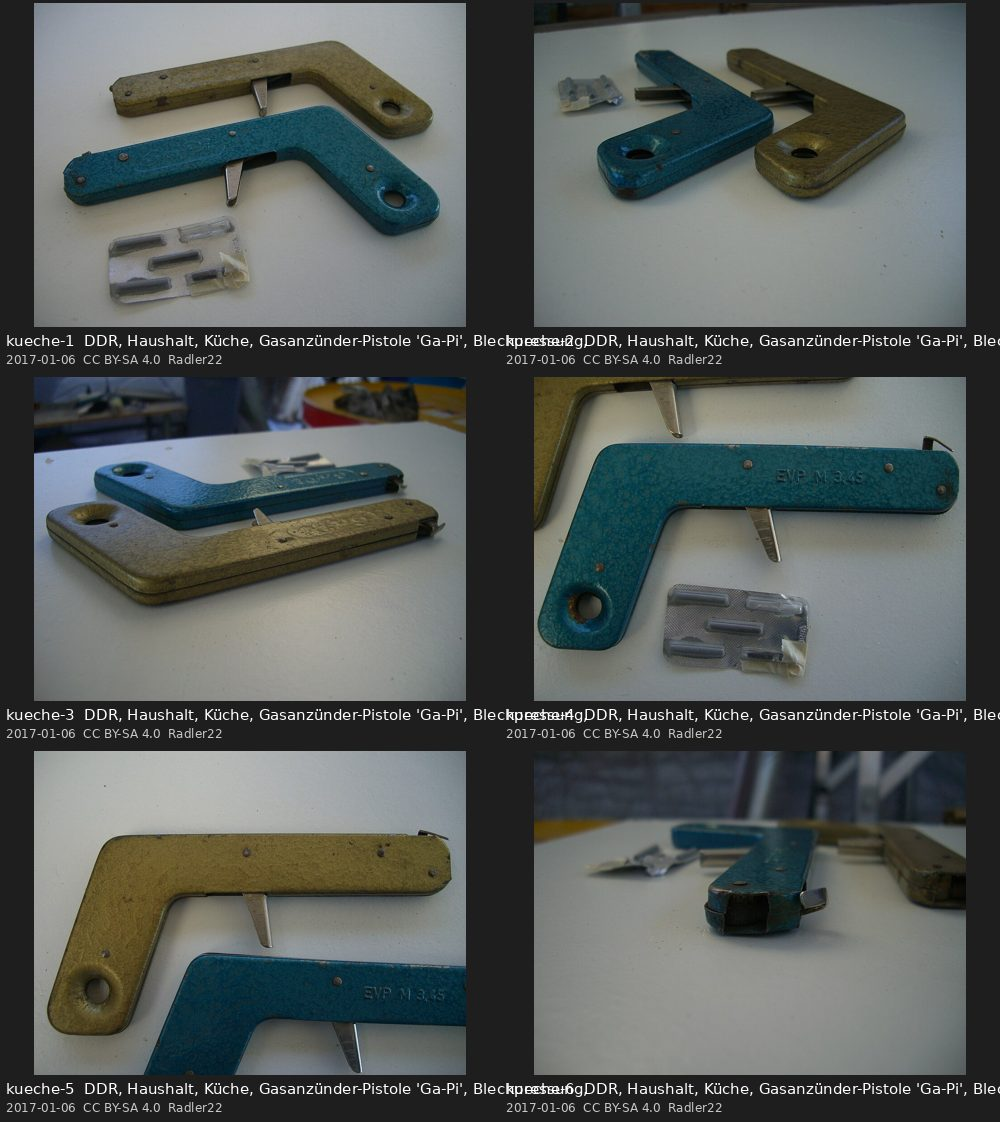
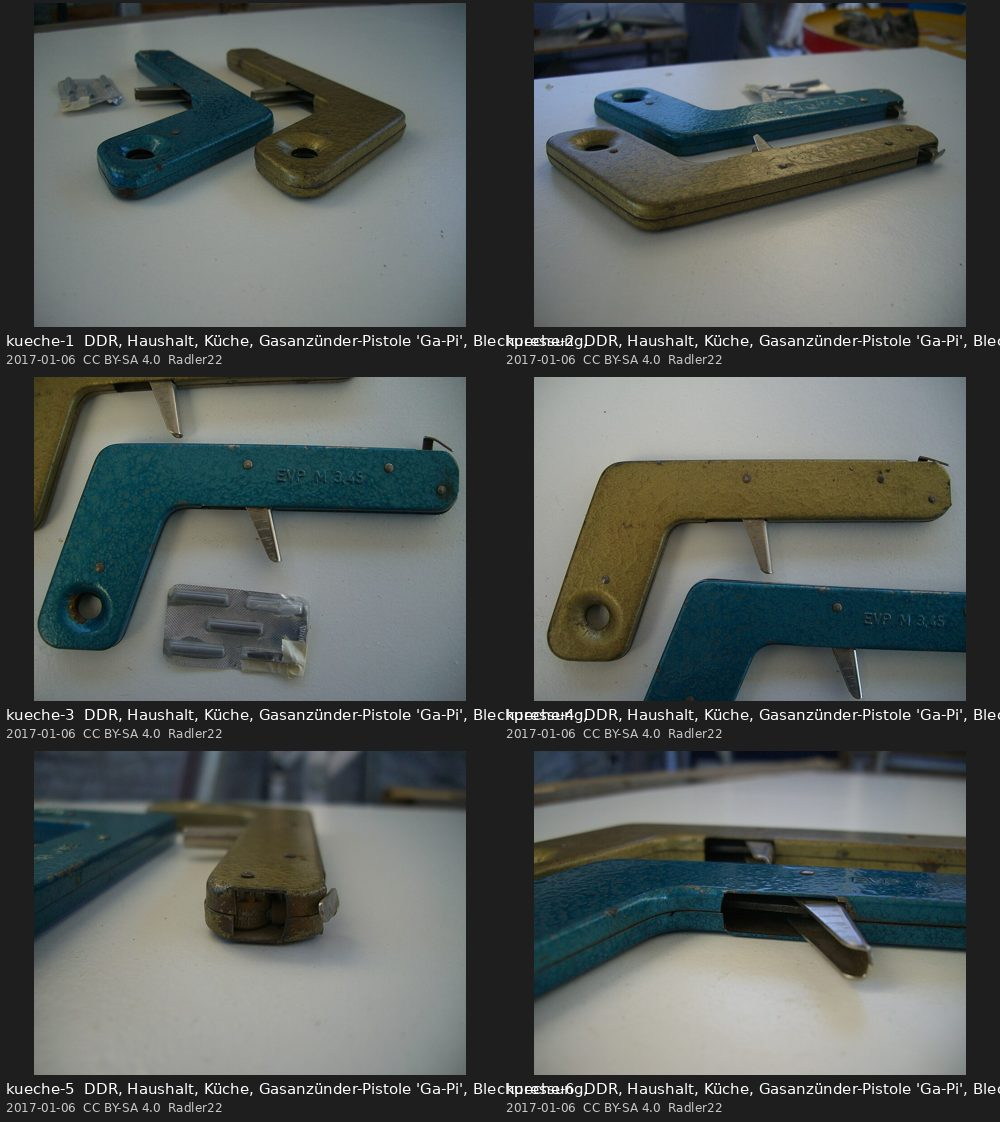
Zombie innen: research from 8b6e035 (not for merging)

diff --git a/CREDITS.md b/CREDITS.md
@@ -112,28 +112,28 @@ Quelle: Wikimedia Commons; nur CC0, CC BY, CC BY-SA, gemeinfrei.
 | ofen-16 | [CH-KBAR - Amtsstube - KB-026430.tif](https://commons.wikimedia.org/wiki/File:CH-KBAR_-_Amtsstube_-_KB-026430.tif) | Baumann, Anna, 1873–1950 | Public domain | 1900–1920 | Wohnzimmer mit Kachelofen, Ofenbank, Tisch und Fenster |
 | ofen-17 | [Daruma stove.JPG](https://commons.wikimedia.org/wiki/File:Daruma_stove.JPG) | 100yen | CC BY-SA 3.0 | Octorber 1 | Daruma stove produced at JR Hokkaido naebo factory. |
 | ofen-18 | [Daruma stove tsugaru.JPG](https://commons.wikimedia.org/wiki/File:Daruma_stove_tsugaru.JPG) | toshinori baba | Public domain | 2009-11-22 | 津軽鉄道のダルマストーブ |
-| kueche-1 | [DDR, Haushalt, Küche, Gasanzünder-Pistole 'Ga-Pi', Blechpressung, Hammerschlaglack, CIMG7616, orig Knipse.jpg](https://commons.wikimedia.org/wiki/File:DDR,_Haushalt,_K%C3%BCche,_Gasanz%C3%BCnder-Pistole_%27Ga-Pi%27,_Blechpressung,_Hammerschlaglack,_CIMG7616,_orig_Knipse.jpg) | Radler22 | CC BY-SA 4.0 | 2017-01-06 | Zwei Gasanzünder-Pistolen 'Ga-Pi' aus der DDR. Zum Anzünden des Gasherdes oder Wasserdurchlauferhitzers, vor der Zeit der Piezozündungen, oder hald älteren Gerä |
-| kueche-2 | [DDR, Haushalt, Küche, Gasanzünder-Pistole 'Ga-Pi', Blechpressung, Hammerschlaglack, CIMG7619, orig Knipse.jpg](https://commons.wikimedia.org/wiki/File:DDR,_Haushalt,_K%C3%BCche,_Gasanz%C3%BCnder-Pistole_%27Ga-Pi%27,_Blechpressung,_Hammerschlaglack,_CIMG7619,_orig_Knipse.jpg) | Radler22 | CC BY-SA 4.0 | 2017-01-06 | Zwei Gasanzünder-Pistolen 'Ga-Pi' aus der DDR. Zum Anzünden des Gasherdes oder Wasserdurchlauferhitzers, vor der Zeit der Piezozündungen, oder hald älteren Gerä |
-| kueche-3 | [DDR, Haushalt, Küche, Gasanzünder-Pistole 'Ga-Pi', Blechpressung, Hammerschlaglack, CIMG7620, orig Knipse.jpg](https://commons.wikimedia.org/wiki/File:DDR,_Haushalt,_K%C3%BCche,_Gasanz%C3%BCnder-Pistole_%27Ga-Pi%27,_Blechpressung,_Hammerschlaglack,_CIMG7620,_orig_Knipse.jpg) | Radler22 | CC BY-SA 4.0 | 2017-01-06 | Zwei Gasanzünder-Pistolen 'Ga-Pi' aus der DDR. Zum Anzünden des Gasherdes oder Wasserdurchlauferhitzers, vor der Zeit der Piezozündungen, oder hald älteren Gerä |
-| kueche-4 | [DDR, Haushalt, Küche, Gasanzünder-Pistole 'Ga-Pi', Blechpressung, Hammerschlaglack, CIMG7622, orig Knipse.jpg](https://commons.wikimedia.org/wiki/File:DDR,_Haushalt,_K%C3%BCche,_Gasanz%C3%BCnder-Pistole_%27Ga-Pi%27,_Blechpressung,_Hammerschlaglack,_CIMG7622,_orig_Knipse.jpg) | Radler22 | CC BY-SA 4.0 | 2017-01-06 | Zwei Gasanzünder-Pistolen 'Ga-Pi' aus der DDR. Zum Anzünden des Gasherdes oder Wasserdurchlauferhitzers, vor der Zeit der Piezozündungen, oder hald älteren Gerä |
-| kueche-5 | [DDR, Haushalt, Küche, Gasanzünder-Pistole 'Ga-Pi', Blechpressung, Hammerschlaglack, CIMG7623, orig Knipse.jpg](https://commons.wikimedia.org/wiki/File:DDR,_Haushalt,_K%C3%BCche,_Gasanz%C3%BCnder-Pistole_%27Ga-Pi%27,_Blechpressung,_Hammerschlaglack,_CIMG7623,_orig_Knipse.jpg) | Radler22 | CC BY-SA 4.0 | 2017-01-06 | Zwei Gasanzünder-Pistolen 'Ga-Pi' aus der DDR. Zum Anzünden des Gasherdes oder Wasserdurchlauferhitzers, vor der Zeit der Piezozündungen, oder hald älteren Gerä |
-| kueche-6 | [DDR, Haushalt, Küche, Gasanzünder-Pistole 'Ga-Pi', Blechpressung, Hammerschlaglack, CIMG7625, orig Knipse.jpg](https://commons.wikimedia.org/wiki/File:DDR,_Haushalt,_K%C3%BCche,_Gasanz%C3%BCnder-Pistole_%27Ga-Pi%27,_Blechpressung,_Hammerschlaglack,_CIMG7625,_orig_Knipse.jpg) | Radler22 | CC BY-SA 4.0 | 2017-01-06 | Zwei Gasanzünder-Pistolen 'Ga-Pi' aus der DDR. Zum Anzünden des Gasherdes oder Wasserdurchlauferhitzers, vor der Zeit der Piezozündungen, oder hald älteren Gerä |
+| kueche-1 | [DDR, Haushalt, Küche, Gasanzünder-Pistole 'Ga-Pi', Blechpressung, Hammerschlaglack, CIMG7619, orig Knipse.jpg](https://commons.wikimedia.org/wiki/File:DDR,_Haushalt,_K%C3%BCche,_Gasanz%C3%BCnder-Pistole_%27Ga-Pi%27,_Blechpressung,_Hammerschlaglack,_CIMG7619,_orig_Knipse.jpg) | Radler22 | CC BY-SA 4.0 | 2017-01-06 | Zwei Gasanzünder-Pistolen 'Ga-Pi' aus der DDR. Zum Anzünden des Gasherdes oder Wasserdurchlauferhitzers, vor der Zeit der Piezozündungen, oder hald älteren Gerä |
+| kueche-2 | [DDR, Haushalt, Küche, Gasanzünder-Pistole 'Ga-Pi', Blechpressung, Hammerschlaglack, CIMG7620, orig Knipse.jpg](https://commons.wikimedia.org/wiki/File:DDR,_Haushalt,_K%C3%BCche,_Gasanz%C3%BCnder-Pistole_%27Ga-Pi%27,_Blechpressung,_Hammerschlaglack,_CIMG7620,_orig_Knipse.jpg) | Radler22 | CC BY-SA 4.0 | 2017-01-06 | Zwei Gasanzünder-Pistolen 'Ga-Pi' aus der DDR. Zum Anzünden des Gasherdes oder Wasserdurchlauferhitzers, vor der Zeit der Piezozündungen, oder hald älteren Gerä |
+| kueche-3 | [DDR, Haushalt, Küche, Gasanzünder-Pistole 'Ga-Pi', Blechpressung, Hammerschlaglack, CIMG7622, orig Knipse.jpg](https://commons.wikimedia.org/wiki/File:DDR,_Haushalt,_K%C3%BCche,_Gasanz%C3%BCnder-Pistole_%27Ga-Pi%27,_Blechpressung,_Hammerschlaglack,_CIMG7622,_orig_Knipse.jpg) | Radler22 | CC BY-SA 4.0 | 2017-01-06 | Zwei Gasanzünder-Pistolen 'Ga-Pi' aus der DDR. Zum Anzünden des Gasherdes oder Wasserdurchlauferhitzers, vor der Zeit der Piezozündungen, oder hald älteren Gerä |
+| kueche-4 | [DDR, Haushalt, Küche, Gasanzünder-Pistole 'Ga-Pi', Blechpressung, Hammerschlaglack, CIMG7623, orig Knipse.jpg](https://commons.wikimedia.org/wiki/File:DDR,_Haushalt,_K%C3%BCche,_Gasanz%C3%BCnder-Pistole_%27Ga-Pi%27,_Blechpressung,_Hammerschlaglack,_CIMG7623,_orig_Knipse.jpg) | Radler22 | CC BY-SA 4.0 | 2017-01-06 | Zwei Gasanzünder-Pistolen 'Ga-Pi' aus der DDR. Zum Anzünden des Gasherdes oder Wasserdurchlauferhitzers, vor der Zeit der Piezozündungen, oder hald älteren Gerä |
+| kueche-5 | [DDR, Haushalt, Küche, Gasanzünder-Pistole 'Ga-Pi', Blechpressung, Hammerschlaglack, CIMG7626, orig Knipse.jpg](https://commons.wikimedia.org/wiki/File:DDR,_Haushalt,_K%C3%BCche,_Gasanz%C3%BCnder-Pistole_%27Ga-Pi%27,_Blechpressung,_Hammerschlaglack,_CIMG7626,_orig_Knipse.jpg) | Radler22 | CC BY-SA 4.0 | 2017-01-06 | Zwei Gasanzünder-Pistolen 'Ga-Pi' aus der DDR. Zum Anzünden des Gasherdes oder Wasserdurchlauferhitzers, vor der Zeit der Piezozündungen, oder hald älteren Gerä |
+| kueche-6 | [DDR, Haushalt, Küche, Gasanzünder-Pistole 'Ga-Pi', Blechpressung, Hammerschlaglack, CIMG7647, orig Knipse.jpg](https://commons.wikimedia.org/wiki/File:DDR,_Haushalt,_K%C3%BCche,_Gasanz%C3%BCnder-Pistole_%27Ga-Pi%27,_Blechpressung,_Hammerschlaglack,_CIMG7647,_orig_Knipse.jpg) | Radler22 | CC BY-SA 4.0 | 2017-01-06 | Zwei Gasanzünder-Pistolen 'Ga-Pi' aus der DDR. Zum Anzünden des Gasherdes oder Wasserdurchlauferhitzers, vor der Zeit der Piezozündungen, oder hald älteren Gerä |
 | kueche-7 | [DDR-Museum Gelenau, Ausstellung Küche (1).jpg](https://commons.wikimedia.org/wiki/File:DDR-Museum_Gelenau,_Ausstellung_K%C3%BCche_(1).jpg) | Aagnverglaser | CC BY 4.0 | 2024-05-01 | DDR-Museum Gelenau, Ausstellung Küche |
 | kueche-8 | [DDR-Museum Gelenau, Ausstellung Küche (2).jpg](https://commons.wikimedia.org/wiki/File:DDR-Museum_Gelenau,_Ausstellung_K%C3%BCche_(2).jpg) | Aagnverglaser | CC BY 4.0 | 2024-05-01 | DDR-Museum Gelenau, Ausstellung Küche |
 | kueche-9 | [DDR-Museum Gelenau, Ausstellung Küche (3).jpg](https://commons.wikimedia.org/wiki/File:DDR-Museum_Gelenau,_Ausstellung_K%C3%BCche_(3).jpg) | Aagnverglaser | CC BY 4.0 | 2024-05-01 | DDR-Museum Gelenau, Ausstellung Küche |
 | kueche-10 | [DDR-Museum Gelenau, Ausstellung Küche (4).jpg](https://commons.wikimedia.org/wiki/File:DDR-Museum_Gelenau,_Ausstellung_K%C3%BCche_(4).jpg) | Aagnverglaser | CC BY 4.0 | 2024-05-01 | DDR-Museum Gelenau, Ausstellung Küche |
 | kueche-11 | [J24 935 Bereisungswagen ES-36, Küche.jpg](https://commons.wikimedia.org/wiki/File:J24_935_Bereisungswagen_ES-36,_K%C3%BCche.jpg) | Falk2 | CC BY-SA 4.0 | 2016-02-12 | mit Kohleherd, rechts die Arbeitsplatte mit Aufwaschbecken. |
 | kueche-12 | [SBB Historic - F 104 18253 - Dampfhammer Kueche mit Kohleherd und Kochkesseln.tif](https://commons.wikimedia.org/wiki/File:SBB_Historic_-_F_104_18253_-_Dampfhammer_Kueche_mit_Kohleherd_und_Kochkesseln.tif) | unknown | CC0 | 16 Februar |  |
-| kueche-13 | [DDR, Haushalt, Küche, Gasanzünder-Pistole 'Ga-Pi', Blechpressung, Hammerschlaglack, CIMG7617, orig Knipse.jpg](https://commons.wikimedia.org/wiki/File:DDR,_Haushalt,_K%C3%BCche,_Gasanz%C3%BCnder-Pistole_%27Ga-Pi%27,_Blechpressung,_Hammerschlaglack,_CIMG7617,_orig_Knipse.jpg) | Radler22 | CC BY-SA 4.0 | 2017-01-06 | Zwei Gasanzünder-Pistolen 'Ga-Pi' aus der DDR. Zum Anzünden des Gasherdes oder Wasserdurchlauferhitzers, vor der Zeit der Piezozündungen, oder hald älteren Gerä |
-| kueche-14 | [DDR, Haushalt, Küche, Gasanzünder-Pistole 'Ga-Pi', Blechpressung, Hammerschlaglack, CIMG7618, orig Knipse.jpg](https://commons.wikimedia.org/wiki/File:DDR,_Haushalt,_K%C3%BCche,_Gasanz%C3%BCnder-Pistole_%27Ga-Pi%27,_Blechpressung,_Hammerschlaglack,_CIMG7618,_orig_Knipse.jpg) | Radler22 | CC BY-SA 4.0 | 2017-01-06 | Zwei Gasanzünder-Pistolen 'Ga-Pi' aus der DDR. Zum Anzünden des Gasherdes oder Wasserdurchlauferhitzers, vor der Zeit der Piezozündungen, oder hald älteren Gerä |
-| kueche-15 | [DDR, Haushalt, Küche, Gasanzünder-Pistole 'Ga-Pi', Blechpressung, Hammerschlaglack, CIMG7621, orig Knipse.jpg](https://commons.wikimedia.org/wiki/File:DDR,_Haushalt,_K%C3%BCche,_Gasanz%C3%BCnder-Pistole_%27Ga-Pi%27,_Blechpressung,_Hammerschlaglack,_CIMG7621,_orig_Knipse.jpg) | Radler22 | CC BY-SA 4.0 | 2017-01-06 | Zwei Gasanzünder-Pistolen 'Ga-Pi' aus der DDR. Zum Anzünden des Gasherdes oder Wasserdurchlauferhitzers, vor der Zeit der Piezozündungen, oder hald älteren Gerä |
-| kueche-16 | [DDR, Haushalt, Küche, Gasanzünder-Pistole 'Ga-Pi', Blechpressung, Hammerschlaglack, CIMG7624, orig Knipse.jpg](https://commons.wikimedia.org/wiki/File:DDR,_Haushalt,_K%C3%BCche,_Gasanz%C3%BCnder-Pistole_%27Ga-Pi%27,_Blechpressung,_Hammerschlaglack,_CIMG7624,_orig_Knipse.jpg) | Radler22 | CC BY-SA 4.0 | 2017-01-06 | Zwei Gasanzünder-Pistolen 'Ga-Pi' aus der DDR. Zum Anzünden des Gasherdes oder Wasserdurchlauferhitzers, vor der Zeit der Piezozündungen, oder hald älteren Gerä |
-| kueche-17 | [DDR, Haushalt, Küche, Gasanzünder-Pistole 'Ga-Pi', Blechpressung, Hammerschlaglack, CIMG7626, orig Knipse.jpg](https://commons.wikimedia.org/wiki/File:DDR,_Haushalt,_K%C3%BCche,_Gasanz%C3%BCnder-Pistole_%27Ga-Pi%27,_Blechpressung,_Hammerschlaglack,_CIMG7626,_orig_Knipse.jpg) | Radler22 | CC BY-SA 4.0 | 2017-01-06 | Zwei Gasanzünder-Pistolen 'Ga-Pi' aus der DDR. Zum Anzünden des Gasherdes oder Wasserdurchlauferhitzers, vor der Zeit der Piezozündungen, oder hald älteren Gerä |
-| kueche-18 | [DDR, Haushalt, Küche, Gasanzünder-Pistole 'Ga-Pi', Blechpressung, Hammerschlaglack, CIMG7627, mit Funken, orig Knipse.jpg](https://commons.wikimedia.org/wiki/File:DDR,_Haushalt,_K%C3%BCche,_Gasanz%C3%BCnder-Pistole_%27Ga-Pi%27,_Blechpressung,_Hammerschlaglack,_CIMG7627,_mit_Funken,_orig_Knipse.jpg) | Radler22 | CC BY-SA 4.0 | 2017-01-06 | Zwei Gasanzünder-Pistolen 'Ga-Pi' aus der DDR. Zum Anzünden des Gasherdes oder Wasserdurchlauferhitzers, vor der Zeit der Piezozündungen, oder hald älteren Gerä |
-| kueche-19 | [DDR, Haushalt, Küche, Gasanzünder-Pistole 'Ga-Pi', Blechpressung, Hammerschlaglack, CIMG7629, orig Knipse.jpg](https://commons.wikimedia.org/wiki/File:DDR,_Haushalt,_K%C3%BCche,_Gasanz%C3%BCnder-Pistole_%27Ga-Pi%27,_Blechpressung,_Hammerschlaglack,_CIMG7629,_orig_Knipse.jpg) | Radler22 | CC BY-SA 4.0 | 2017-01-06 | Zwei Gasanzünder-Pistolen 'Ga-Pi' aus der DDR. Zum Anzünden des Gasherdes oder Wasserdurchlauferhitzers, vor der Zeit der Piezozündungen, oder hald älteren Gerä |
-| kueche-20 | [DDR, Haushalt, Küche, Gasanzünder-Pistole 'Ga-Pi', Blechpressung, Hammerschlaglack, CIMG7630, orig Knipse.jpg](https://commons.wikimedia.org/wiki/File:DDR,_Haushalt,_K%C3%BCche,_Gasanz%C3%BCnder-Pistole_%27Ga-Pi%27,_Blechpressung,_Hammerschlaglack,_CIMG7630,_orig_Knipse.jpg) | Radler22 | CC BY-SA 4.0 | 2017-01-06 | Zwei Gasanzünder-Pistolen 'Ga-Pi' aus der DDR. Zum Anzünden des Gasherdes oder Wasserdurchlauferhitzers, vor der Zeit der Piezozündungen, oder hald älteren Gerä |
-| kueche-21 | [DDR, Haushalt, Küche, Gasanzünder-Pistole 'Ga-Pi', Blechpressung, Hammerschlaglack, CIMG7636, orig Knipse.jpg](https://commons.wikimedia.org/wiki/File:DDR,_Haushalt,_K%C3%BCche,_Gasanz%C3%BCnder-Pistole_%27Ga-Pi%27,_Blechpressung,_Hammerschlaglack,_CIMG7636,_orig_Knipse.jpg) | Radler22 | CC BY-SA 4.0 | 2017-01-06 | Zwei Gasanzünder-Pistolen 'Ga-Pi' aus der DDR. Zum Anzünden des Gasherdes oder Wasserdurchlauferhitzers, vor der Zeit der Piezozündungen, oder hald älteren Gerä |
-| kueche-22 | [DDR, Haushalt, Küche, Gasanzünder-Pistole 'Ga-Pi', Blechpressung, Hammerschlaglack, CIMG7647, orig Knipse.jpg](https://commons.wikimedia.org/wiki/File:DDR,_Haushalt,_K%C3%BCche,_Gasanz%C3%BCnder-Pistole_%27Ga-Pi%27,_Blechpressung,_Hammerschlaglack,_CIMG7647,_orig_Knipse.jpg) | Radler22 | CC BY-SA 4.0 | 2017-01-06 | Zwei Gasanzünder-Pistolen 'Ga-Pi' aus der DDR. Zum Anzünden des Gasherdes oder Wasserdurchlauferhitzers, vor der Zeit der Piezozündungen, oder hald älteren Gerä |
+| kueche-13 | [DDR, Haushalt, Küche, Gasanzünder-Pistole 'Ga-Pi', Blechpressung, Hammerschlaglack, CIMG7616, orig Knipse.jpg](https://commons.wikimedia.org/wiki/File:DDR,_Haushalt,_K%C3%BCche,_Gasanz%C3%BCnder-Pistole_%27Ga-Pi%27,_Blechpressung,_Hammerschlaglack,_CIMG7616,_orig_Knipse.jpg) | Radler22 | CC BY-SA 4.0 | 2017-01-06 | Zwei Gasanzünder-Pistolen 'Ga-Pi' aus der DDR. Zum Anzünden des Gasherdes oder Wasserdurchlauferhitzers, vor der Zeit der Piezozündungen, oder hald älteren Gerä |
+| kueche-14 | [DDR, Haushalt, Küche, Gasanzünder-Pistole 'Ga-Pi', Blechpressung, Hammerschlaglack, CIMG7617, orig Knipse.jpg](https://commons.wikimedia.org/wiki/File:DDR,_Haushalt,_K%C3%BCche,_Gasanz%C3%BCnder-Pistole_%27Ga-Pi%27,_Blechpressung,_Hammerschlaglack,_CIMG7617,_orig_Knipse.jpg) | Radler22 | CC BY-SA 4.0 | 2017-01-06 | Zwei Gasanzünder-Pistolen 'Ga-Pi' aus der DDR. Zum Anzünden des Gasherdes oder Wasserdurchlauferhitzers, vor der Zeit der Piezozündungen, oder hald älteren Gerä |
+| kueche-15 | [DDR, Haushalt, Küche, Gasanzünder-Pistole 'Ga-Pi', Blechpressung, Hammerschlaglack, CIMG7618, orig Knipse.jpg](https://commons.wikimedia.org/wiki/File:DDR,_Haushalt,_K%C3%BCche,_Gasanz%C3%BCnder-Pistole_%27Ga-Pi%27,_Blechpressung,_Hammerschlaglack,_CIMG7618,_orig_Knipse.jpg) | Radler22 | CC BY-SA 4.0 | 2017-01-06 | Zwei Gasanzünder-Pistolen 'Ga-Pi' aus der DDR. Zum Anzünden des Gasherdes oder Wasserdurchlauferhitzers, vor der Zeit der Piezozündungen, oder hald älteren Gerä |
+| kueche-16 | [DDR, Haushalt, Küche, Gasanzünder-Pistole 'Ga-Pi', Blechpressung, Hammerschlaglack, CIMG7621, orig Knipse.jpg](https://commons.wikimedia.org/wiki/File:DDR,_Haushalt,_K%C3%BCche,_Gasanz%C3%BCnder-Pistole_%27Ga-Pi%27,_Blechpressung,_Hammerschlaglack,_CIMG7621,_orig_Knipse.jpg) | Radler22 | CC BY-SA 4.0 | 2017-01-06 | Zwei Gasanzünder-Pistolen 'Ga-Pi' aus der DDR. Zum Anzünden des Gasherdes oder Wasserdurchlauferhitzers, vor der Zeit der Piezozündungen, oder hald älteren Gerä |
+| kueche-17 | [DDR, Haushalt, Küche, Gasanzünder-Pistole 'Ga-Pi', Blechpressung, Hammerschlaglack, CIMG7624, orig Knipse.jpg](https://commons.wikimedia.org/wiki/File:DDR,_Haushalt,_K%C3%BCche,_Gasanz%C3%BCnder-Pistole_%27Ga-Pi%27,_Blechpressung,_Hammerschlaglack,_CIMG7624,_orig_Knipse.jpg) | Radler22 | CC BY-SA 4.0 | 2017-01-06 | Zwei Gasanzünder-Pistolen 'Ga-Pi' aus der DDR. Zum Anzünden des Gasherdes oder Wasserdurchlauferhitzers, vor der Zeit der Piezozündungen, oder hald älteren Gerä |
+| kueche-18 | [DDR, Haushalt, Küche, Gasanzünder-Pistole 'Ga-Pi', Blechpressung, Hammerschlaglack, CIMG7625, orig Knipse.jpg](https://commons.wikimedia.org/wiki/File:DDR,_Haushalt,_K%C3%BCche,_Gasanz%C3%BCnder-Pistole_%27Ga-Pi%27,_Blechpressung,_Hammerschlaglack,_CIMG7625,_orig_Knipse.jpg) | Radler22 | CC BY-SA 4.0 | 2017-01-06 | Zwei Gasanzünder-Pistolen 'Ga-Pi' aus der DDR. Zum Anzünden des Gasherdes oder Wasserdurchlauferhitzers, vor der Zeit der Piezozündungen, oder hald älteren Gerä |
+| kueche-19 | [DDR, Haushalt, Küche, Gasanzünder-Pistole 'Ga-Pi', Blechpressung, Hammerschlaglack, CIMG7627, mit Funken, orig Knipse.jpg](https://commons.wikimedia.org/wiki/File:DDR,_Haushalt,_K%C3%BCche,_Gasanz%C3%BCnder-Pistole_%27Ga-Pi%27,_Blechpressung,_Hammerschlaglack,_CIMG7627,_mit_Funken,_orig_Knipse.jpg) | Radler22 | CC BY-SA 4.0 | 2017-01-06 | Zwei Gasanzünder-Pistolen 'Ga-Pi' aus der DDR. Zum Anzünden des Gasherdes oder Wasserdurchlauferhitzers, vor der Zeit der Piezozündungen, oder hald älteren Gerä |
+| kueche-20 | [DDR, Haushalt, Küche, Gasanzünder-Pistole 'Ga-Pi', Blechpressung, Hammerschlaglack, CIMG7629, orig Knipse.jpg](https://commons.wikimedia.org/wiki/File:DDR,_Haushalt,_K%C3%BCche,_Gasanz%C3%BCnder-Pistole_%27Ga-Pi%27,_Blechpressung,_Hammerschlaglack,_CIMG7629,_orig_Knipse.jpg) | Radler22 | CC BY-SA 4.0 | 2017-01-06 | Zwei Gasanzünder-Pistolen 'Ga-Pi' aus der DDR. Zum Anzünden des Gasherdes oder Wasserdurchlauferhitzers, vor der Zeit der Piezozündungen, oder hald älteren Gerä |
+| kueche-21 | [DDR, Haushalt, Küche, Gasanzünder-Pistole 'Ga-Pi', Blechpressung, Hammerschlaglack, CIMG7630, orig Knipse.jpg](https://commons.wikimedia.org/wiki/File:DDR,_Haushalt,_K%C3%BCche,_Gasanz%C3%BCnder-Pistole_%27Ga-Pi%27,_Blechpressung,_Hammerschlaglack,_CIMG7630,_orig_Knipse.jpg) | Radler22 | CC BY-SA 4.0 | 2017-01-06 | Zwei Gasanzünder-Pistolen 'Ga-Pi' aus der DDR. Zum Anzünden des Gasherdes oder Wasserdurchlauferhitzers, vor der Zeit der Piezozündungen, oder hald älteren Gerä |
+| kueche-22 | [DDR, Haushalt, Küche, Gasanzünder-Pistole 'Ga-Pi', Blechpressung, Hammerschlaglack, CIMG7636, orig Knipse.jpg](https://commons.wikimedia.org/wiki/File:DDR,_Haushalt,_K%C3%BCche,_Gasanz%C3%BCnder-Pistole_%27Ga-Pi%27,_Blechpressung,_Hammerschlaglack,_CIMG7636,_orig_Knipse.jpg) | Radler22 | CC BY-SA 4.0 | 2017-01-06 | Zwei Gasanzünder-Pistolen 'Ga-Pi' aus der DDR. Zum Anzünden des Gasherdes oder Wasserdurchlauferhitzers, vor der Zeit der Piezozündungen, oder hald älteren Gerä |
 | kueche-23 | [DDR-Museum Pirna Küche 2015-01-17.JPG](https://commons.wikimedia.org/wiki/File:DDR-Museum_Pirna_K%C3%BCche_2015-01-17.JPG) | Toffel | CC BY-SA 4.0 | 2015-01-17 | Eine Küche im DDR-Museum Pirna. |
 | kueche-24 | [DDR Museum Zeitreise Radebeul Küche.jpg](https://commons.wikimedia.org/wiki/File:DDR_Museum_Zeitreise_Radebeul_K%C3%BCche.jpg) | Stefan Kühn | CC BY-SA 3.0 | 2012-06-06 | DDR-Museum Zeitreise in Radebeul, moderne Wohnküche |
 | ddr-1 | [1970-1980er Jahre circa Jochen Mellin Foto Verdienstorden an Heimatkundler Richard Brandt, ARH NL Mellin 01-147-0018.png](https://commons.wikimedia.org/wiki/File:1970-1980er_Jahre_circa_Jochen_Mellin_Foto_Verdienstorden_an_Heimatkundler_Richard_Brandt,_ARH_NL_Mellin_01-147-0018.png) | Jochen Mellin | CC BY-SA 4.0 | circa 1980 | Möglicherweise im Wohnzimmer des Lehrers, Heimatkundlers und Sammlungs-Stifters Richard Brandt in der Wedemark von dem Fotografen Jochen Mellin aufgenommenes Fo |
